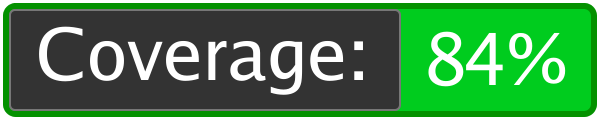
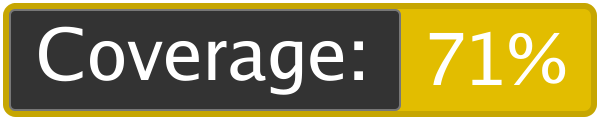
Now updates markdown with shields.io shield

diff --git a/main.go b/main.go
@@ -4,6 +4,7 @@ import (
 	"bufio"
 	"fmt"
 	"io"
+	"io/ioutil"
 	"log"
 	"os"
 	"os/exec"
@@ -48,8 +49,27 @@ func getCommandOutput(commandString string) chan float64 {
 	cmd.Wait()
 	return coverageFloatChannel
 }
+func writeBadgeToMd(coverageFloat float64, filepath string) {
+	badgeURL := "https://img.shields.io/badge/Coverage-%2.f%%-brightgreen.svg?longCache=true&style=flat"
+	newImageTag := fmt.Sprintf("![gopherbadger-tag-do-not-edit](%s)", fmt.Sprintf(badgeURL, coverageFloat))
+	imageTagRegex := `\!?\[gopherbadger-tag-do-not-edit\](.*)`
+	r, err := regexp.Compile(imageTagRegex)
+	if err != nil {
+		log.Fatal("Compiling regex: ", err)
+	}
+	filedata, err := ioutil.ReadFile(filepath)
+	if err != nil {
+		log.Fatal("Could not open markdown file: ", err)
+	}
+	markdownData := r.ReplaceAllString(string(filedata), newImageTag)
+	err = ioutil.WriteFile(filepath, []byte(markdownData), 0644)
+	if err != nil {
+		log.Fatal("Error: could not write shield url to markdown file: ", err)
+	}
+}
 func main() {
 	var coverageFloat float64
 	coverageFloat = <-getCommandOutput("go test ./... -coverprofile=coverage.out && go tool cover -func=coverage.out")
 	drawBadge(coverageFloat, "coverage_badge.png")
+	writeBadgeToMd(coverageFloat, "./README.md")
 }

diff --git a/README.md b/README.md
@@ -1,7 +1,7 @@
 # GopherBadger
 ### Generate coverage badge images using Go!
 
-<a href="https://ci.jpoles1.com/jpoles1/gopherbadger"><img src="https://ci.jpoles1.com/api/badges/jpoles1/gopherbadger/status.svg" height="25"/></a>     <img src="https://raw.githubusercontent.com/jpoles1/gopherbadger/master/coverage_badge.png" height="25"/>
+![gopherbadger-tag-do-not-edit](https://img.shields.io/badge/Coverage-71%-brightgreen.svg?longCache=true&style=flat)
 
 One day, I noticed that there was no easy way to generate coverage badges for my Golang projects. So I made one (see above)! 
 
